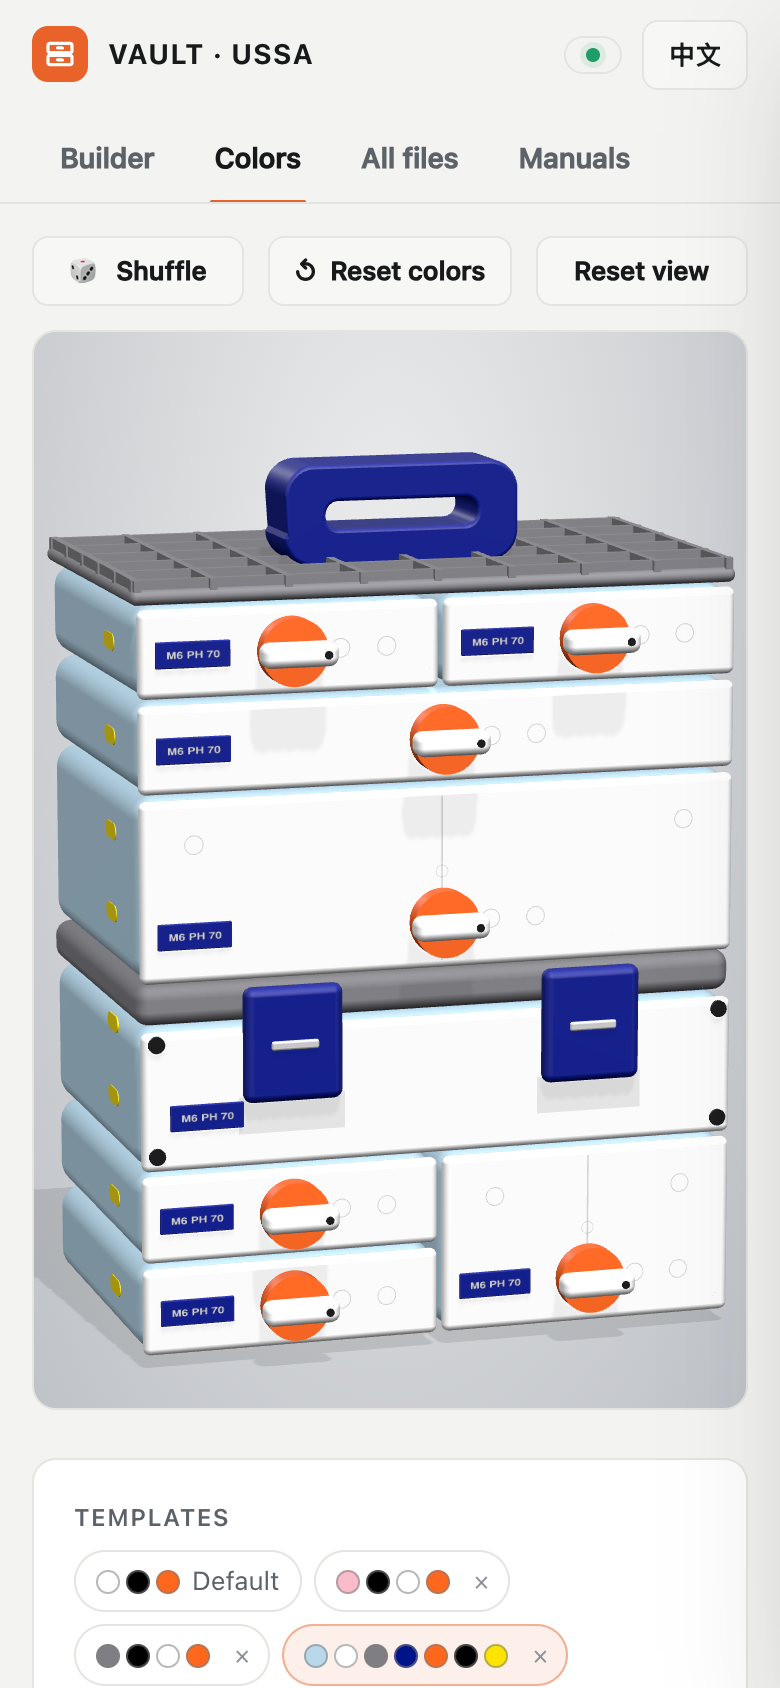
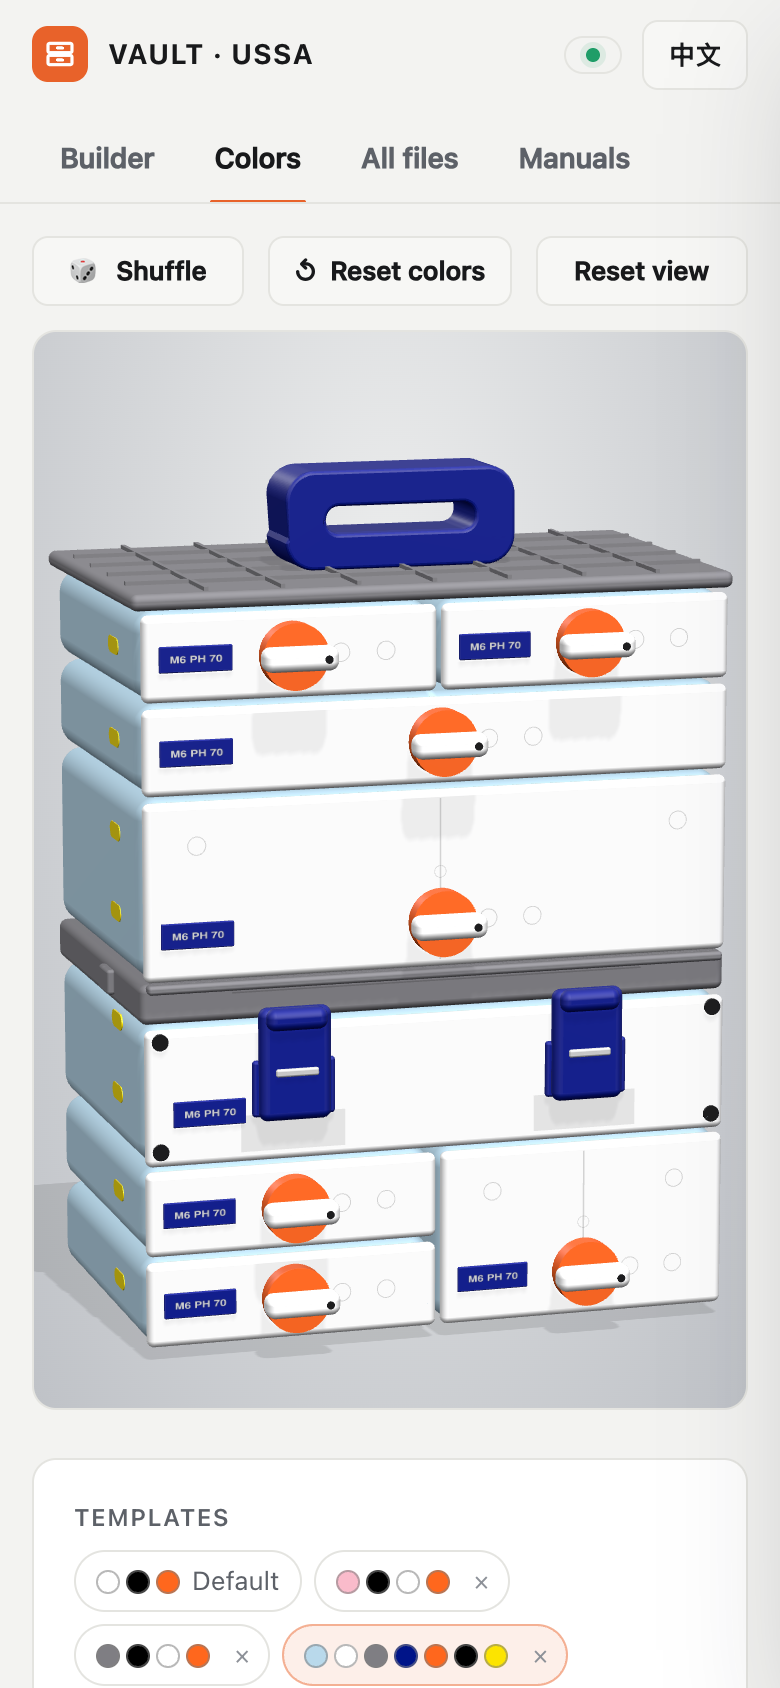
README: emoji feature summary table, then the details; sustainer lid, latches and hinges reshaped to stay within the roof height; refreshed screenshots

Changed region(s): [[0.0615, 0.2464, 0.9538, 0.8009]]

diff --git a/index.html b/index.html
@@ -1757,27 +1757,37 @@ function addSustainer(k, { cx, w, y, h }, depth, locks = 2) {
   const { THREE, add, mat, rb, label, bolt, slot, decal, soft } = k;
   const { LID } = STACK;
   add(rb(w - 1.5, h - LID - 1, depth, 12), mat('body'), cx, y + (h - LID - 1) / 2, -depth / 2, 'body');
-  add(rb(w, LID, depth + 2, 8), mat('roof'), cx, y + h - LID / 2, -depth / 2 + 1, 'roof');
+  // The lid (the sustainer's roof): a flat-topped plate, a little wider than the body, with a bevelled front edge, small side tabs
+  // that the latches grab, a notch for the hinges at the back, three tab pads and a groove line near the front (from the real STL).
+  const lidY = y + h - LID / 2, lidZ = -depth / 2 + 1;
+  add(rb(w, LID, depth + 2, 4.5), mat('roof'), cx, lidY, lidZ, 'roof');
+  add(rb(w - 6, 5, 8, 2), mat('roof'), cx, y + h - 2, 4.2, 'roof');                                   // bevel at the front edge
+  for (const sx of [-1, 1]) add(rb(5, 14, 20, 2), mat('roof'), cx + sx * (w / 2 + 1.5), lidY + 1, -depth * 0.35, 'roof');   // side tabs
+  decal(new THREE.PlaneGeometry(w * 0.7, 0.8), cx, y + h - 6, 5.1);                                  // groove line near the front edge
+  decal(new THREE.PlaneGeometry(26, 7), cx, y + h - LID / 2, -depth - 0.6, soft);                    // hinge notch at the back
+  for (const px of [-0.2, 0, 0.2]) add(rb(24, 1.8, 14, 1), mat('roof'), cx + px * w, y + h + 0.5, -depth + 20, 'roof');   // tab pads near the hinges
   add(rb(w - 3, h - LID - 3.5, 8, 10), mat('facade'), cx, y + (h - LID - 1) / 2, 3.5, 'facade');
-  // Lock latches: a holder plate on the body, and the latch (the clip) hooking over the lid edge, with a pull slot.
-  const n = Math.max(0, Math.min(locks, Math.floor(w / 70))), lh = h < 80 ? h - 8 : h > 150 ? 88 : 62;
+  // Lock latches hang below the lid seam: the hook at the top catches the lower edge of the lid, the latch body and its holder
+  // plate sit on the box underneath, with a pull slot.
+  const n = Math.max(0, Math.min(locks, Math.floor(w / 70)));
+  const topY = y + h - LID + 8;                                   // top of the latch: in the lower part of the lid
+  const lh = Math.min(h < 80 ? 46 : h > 150 ? 88 : 62, topY - y - 6);
   for (let i = 0; i < n; i++) {
-    const lx = cx + ((i + 0.5) / n - 0.5) * w, ly = y + h - lh / 2 - 2;
+    const lx = cx + ((i + 0.5) / n - 0.5) * w, ly = topY - lh / 2;
     decal(new THREE.PlaneGeometry(58, 20), lx, ly - lh / 2 - 7, 7.7, soft);   // the recess under the latch
     add(rb(46, Math.max(16, lh * 0.5), 4, 3), mat('lock'), lx, ly - lh * 0.22, 8.4, 'lock');   // lock holder
     add(rb(40, lh, 10, 7), mat('lock'), lx, ly, 11, 'lock');                                    // latch body
-    add(rb(34, 12, 12, 5), mat('lock'), lx, y + h - LID / 2 + 4, 14.5, 'lock');                  // hook over the lid edge
+    add(rb(34, 12, 12, 5), mat('lock'), lx, topY - 6, 14.5, 'lock');                                // hook over the lid edge
     add(rb(24, 4.5, 3, 2), slot, lx, ly - 4, 16.4);                                            // pull slot
   }
-  // Hinges at the back (as in the official diagram): a hinge top plate with four screws on the lid, the hinge barrel on the body,
-  // and the orange rod ends showing at both sides of the barrel.
+  // Hinges at the back span the same height as the lock latches on the front (same top, same length): the hinge top plate with its
+  // four screws, the barrel at the seam and the orange rod ends at both sides.
   for (const hx of [-0.3, 0.3]) {
-    const x = cx + hx * w, z = -depth - 1.5;
-    add(rb(36, 34, 3, 1.5), mat('hinge'), x, y + h - LID / 2 + 2, z, 'hinge');
-    for (const dx of [-11, 11]) for (const dy of [-9, 9]) add(new THREE.CylinderGeometry(2.4, 2.4, 1.2, 14), bolt, x + dx, y + h - LID / 2 + 2 + dy, z - 2).rotation.x = Math.PI / 2;
-    add(rb(34, 28, 6, 2), mat('hinge'), x, y + h - LID - 12, z - 1.5, 'hinge');
-    add(new THREE.CylinderGeometry(7, 7, 34, 28), mat('hinge'), x, y + h - LID - 1, z - 7.5, 'hinge').rotation.z = Math.PI / 2;
-    for (const sx of [-1, 1]) add(new THREE.CylinderGeometry(3.4, 3.4, 5, 20), mat('rod'), x + sx * 19.5, y + h - LID - 1, z - 7.5, 'rod').rotation.z = Math.PI / 2;
+    const x = cx + hx * w, z = -depth - 1.5, my = topY - lh / 2;
+    add(rb(36, lh, 3, 1.5), mat('hinge'), x, my, z, 'hinge');                                   // hinge plate
+    for (const dx of [-11, 11]) for (const dy of [lh / 2 - 8, -lh / 2 + 8]) add(new THREE.CylinderGeometry(2.4, 2.4, 1.2, 14), bolt, x + dx, my + dy, z - 2).rotation.x = Math.PI / 2;
+    add(new THREE.CylinderGeometry(6.5, 6.5, 34, 28), mat('hinge'), x, topY - 12, z - 6.5, 'hinge').rotation.z = Math.PI / 2;   // barrel
+    for (const sx of [-1, 1]) add(new THREE.CylinderGeometry(3.2, 3.2, 5, 20), mat('rod'), x + sx * 19.5, topY - 12, z - 6.5, 'rod').rotation.z = Math.PI / 2;
   }
   const rows = h > 150 ? [10, (h - LID) / 2, h - LID - 8] : [10, h - LID - 8];
   for (const sx of [-1, 1]) for (const yy of rows) add(new THREE.CylinderGeometry(4.5, 4.5, 2, 20), bolt, cx + sx * (w / 2 - 9), y + yy, 8).rotation.x = Math.PI / 2;
@@ -1795,25 +1805,38 @@ function addStoppers(k, { y, h, kind }, depth, wallX) {
   for (const f of fractions) k.add(geo, k.mat('stopper'), wallX, y + h * f, -0.28 * depth, 'stopper');
 }
 
-// Roof styles of the top unit: grid, bowl, table and under-table mount.
+// Roofs of the top unit. In the pack they are all the same thing: a flat plate a little larger than the box, with a different
+// top: low thin ribs (grid), a shallow rounded dish (bowl), a plain plate with a thin groove (table), or a plain plate with
+// screw holes (under-table mount). The heavyweight cover (L / XL) is a thicker lid with a bar handle.
 function addRoof(k, style, w, depth, y) {
-  const { THREE, add, mat, rb } = k;
-  const rw = w + 2;
-  add(rb(rw, 8, depth + 4, 4), mat('roof'), 0, y + 4, -depth / 2, 'roof');
-  if (style === 'grid') {
-    const nx = Math.max(2, Math.round(rw / 42)), nz = Math.max(2, Math.round(depth / 42));
-    for (let i = 0; i <= nx; i++) add(new THREE.BoxGeometry(4, 6, depth + 2), mat('roof'), -rw / 2 + 4 + i * ((rw - 8) / nx), y + 10, -depth / 2, 'roof');
-    for (let i = 0; i <= nz; i++) add(new THREE.BoxGeometry(rw - 2, 6, 4), mat('roof'), 0, y + 10, -depth + 4 + i * ((depth - 8) / nz), 'roof');
-  } else if (style === 'bowl') {   // a shallow tray: raised rim all round
-    add(new THREE.BoxGeometry(rw, 7, 3), mat('roof'), 0, y + 11, -depth - 0.5, 'roof');
-    add(new THREE.BoxGeometry(rw, 7, 3), mat('roof'), 0, y + 11, 1.5, 'roof');
-    for (const sx of [-1, 1]) add(new THREE.BoxGeometry(3, 7, depth + 4), mat('roof'), sx * (rw / 2 - 1.5), y + 11, -depth / 2, 'roof');
-  } else if (style === 'heavy') {   // heavyweight cover: a thick lid with a bar handle (about 156 x 30 mm) on two posts
-    add(rb(rw, 12, depth + 4, 5), mat('roof'), 0, y + 14, -depth / 2, 'roof');
-    for (const sx of [-1, 1]) add(rb(26, 18, 26, 4), mat('roof'), sx * 56, y + 29, -depth / 2, 'roof');
-    add(rb(156, 22, 30, 11), mat('handle'), 0, y + 46, -depth / 2, 'handle');
-  } else if (style === 'mount') {   // under-table mount: four flanges to screw the unit to a desk
-    for (const sx of [-1, 1]) for (const sz of [-1, 1]) add(rb(24, 4, 26, 2), mat('roof'), sx * (rw / 2 + 10), y + 2, -depth / 2 + sz * (depth / 2 - 4), 'roof');
+  const { THREE, add, mat, rb, fixed } = k;
+  const rw = w + 6, rd = depth + 6;
+  const frame = (outerW, outerD, inset, height, r) => {   // a rounded-rectangle ring lying flat
+    const sh = roundedRect(THREE, outerW, outerD, r);
+    sh.holes.push(new THREE.Path(roundedRect(THREE, outerW - 2 * inset, outerD - 2 * inset, Math.max(2, r - inset / 2)).getPoints(20)));
+    const g = new THREE.ExtrudeGeometry(sh, { depth: height, bevelEnabled: false, curveSegments: 10 });
+    g.rotateX(-Math.PI / 2);
+    return g;
+  };
+  const plate = (t = 9) => add(rb(rw, t, rd, 4), mat('roof'), 0, y + t / 2, -depth / 2, 'roof');
+  if (style === 'heavy') {   // heavyweight cover: a thick lid with a bar handle (about 156 x 30 mm) on two posts
+    add(rb(rw, 12, rd, 5), mat('roof'), 0, y + 6, -depth / 2, 'roof');
+    for (const sx of [-1, 1]) add(rb(26, 18, 26, 4), mat('roof'), sx * 56, y + 21, -depth / 2, 'roof');
+    add(rb(156, 22, 30, 11), mat('handle'), 0, y + 38, -depth / 2, 'handle');
+    return;
+  }
+  plate();
+  if (style === 'grid') {   // low thin ribs every ~42 mm (the Gridfinity pitch), stopping short of the edge
+    const nx = Math.max(2, Math.round(rw / 42)), nz = Math.max(2, Math.round(rd / 42));
+    for (let i = 1; i < nx; i++) add(new THREE.BoxGeometry(2.4, 2.2, rd - 12), mat('roof'), -rw / 2 + i * (rw / nx), y + 9 + 1.1, -depth / 2, 'roof');
+    for (let i = 1; i < nz; i++) add(new THREE.BoxGeometry(rw - 12, 2.2, 2.4), mat('roof'), 0, y + 9 + 1.1, -depth / 2 - rd / 2 + i * (rd / nz), 'roof');
+  } else if (style === 'bowl') {   // a shallow dish: a raised rim all round, a flat floor inside
+    add(frame(rw - 2, rd - 2, 11, 4, 14), mat('roof'), 0, y + 9, -depth / 2, 'roof');
+  } else if (style === 'table') {   // plain plate with a thin groove line near the edge
+    { const groove = add(frame(rw - 12, rd - 12, 1.6, 0.7, 12), fixed('#000000', 1), 0, y + 9.01, -depth / 2); Object.assign(groove.material, { transparent: true, opacity: 0.3 }); groove.castShadow = false; }
+  } else if (style === 'mount') {   // under-table mount: plain plate with screw holes along the long sides
+    const holes = Math.max(3, Math.round(rw / 80));
+    for (let i = 0; i < holes; i++) for (const sz of [-1, 1]) add(new THREE.CylinderGeometry(2.4, 2.4, 0.6, 14), fixed('#222226', 0.6), -rw / 2 + 16 + i * ((rw - 32) / (holes - 1)), y + 9.05, -depth / 2 + sz * (rd / 2 - 9));
   }
 }
 
@@ -1843,7 +1866,7 @@ function buildTower(e) {
     if (u.kind === 'drawer') addDrawer(k, u, DEPTH); else addSustainer(k, u, DEPTH, 2);
   }
   addRoof(k, 'grid', L, DEPTH, STACK_TOP);
-  addHandle(k, STACK_TOP + 8, DEPTH);
+  addHandle(k, STACK_TOP + 9, DEPTH);
   addFeet(k, L, DEPTH);
   return { group: k.g, mats: k.mats, labelMat: k.labelMat };
 }
@@ -1862,7 +1885,7 @@ function buildPreviewUnit(e, st) {
   let base = n * pitch;
   if (drawer) {
     const style = /Heawy|Heavy/i.test(st.roof) ? 'heavy' : /Under/i.test(st.roof) ? 'mount' : /Grid/i.test(st.roof) ? 'grid' : /Bowl/i.test(st.roof) ? 'bowl' : /Table/i.test(st.roof) ? 'table' : '';
-    if (style) { addRoof(k, style, w, depth, base); base += 8; }
+    if (style) { addRoof(k, style, w, depth, base); base += style === 'heavy' ? 12 : 11; }
     if (st.handle && style !== 'heavy') addHandle(k, base, depth, w);   // the heavyweight cover has its own handle
   }
   addFeet(k, w, depth);

diff --git a/README.md b/README.md
@@ -10,27 +10,30 @@ A local browser hub for finding your way around the VAULT modular stacking toolb
 
 The VAULT file pack has 700+ STL files spread over dozens of nested folders (Drawers, Sustainers, Modifications, each split by size family S / M / L / XL, then by depth, modules, roofs, facades, dividers, baseplates...). Working out which files make up *one* drawer, and printing them without missing a part, takes a lot of clicking.
 
-## Highlights
+## ✨ Features at a glance
 
-- **Builder** – choose a drawer or sustainer, size and options, and get the complete list of files to print, with quantities, print time and weight estimates and hardware counts.
-- **Live preview** – a 3D render of the exact unit you configured (every width, depth, height, quantity, lock, roof and handle), updating as you click.
-- **Filament finish tags** – every STL is tagged Matte, Basic or TPU, and each tag is filled with the color you picked for that part.
-- **Color picker** – 8 Matte and 13 Basic colors on a 3D tower, click-to-recolor, shuffle, saved color templates, import / export.
-- **Print checklist** – tick parts off with a saved progress bar, copy the list, or gather all the files into one folder for your slicer.
-- **3D file preview** – orbit any STL in the browser with size and triangle count, wireframe and "open in slicer".
-- **Search all files** – instant search and filters over the whole pack, with thumbnails.
-- **Manuals** – the official PDFs next to a reference gallery.
-- **English / 中文**, light and dark theme that follow your system, and a layout that works on phones.
+| | |
+|---|---|
+| 📋 **Builder** | Pick a drawer or sustainer, size and options → get the complete list of files to print, with quantities, print time, weight and hardware counts. |
+| 🎛 **Every part, with a switch** | All parts of the unit are listed (keys, handle, roofs, dividers, baseplates, locks, hinges…). Switch any on or off; totals, *Copy list* and *Gather* follow. |
+| 🧊 **Live 3D preview** | A render of the exact unit you configured: rounded modules, key, label, runner stoppers, roofs (grid / bowl / table / under-table / heavyweight), lid, lock latches and hinges. Flip it to see the back. |
+| 🎨 **Color picker** | Try 8 Matte and 13 Basic colors on a 3D tower. Click a part to recolor, 🎲 shuffle, reset, save color templates, import / export. |
+| 🏷 **Filament tags** | Every STL is tagged Matte, Basic or TPU, and each tag is filled with the color you picked. |
+| ✅ **Print checklist** | Tick parts off as they print, with a saved progress bar. Copy the list or gather the files into one folder. |
+| 🔍 **3D file preview** | Orbit any STL in the browser with real size and triangle count, wireframe, open in slicer, show in folder. |
+| 🗂 **Search the whole pack** | Instant search and filters across all 700+ files, with thumbnails. |
+| 📖 **Manuals** | The official PDFs next to a reference gallery. |
+| 🌐 **English / 中文** · 📱 **phone-friendly** · 🌗 **light and dark** | One click to switch language; works on phones and follows your system theme. |
 
-## Features
+## 🔎 Feature details
 
-### Builder: "what do I need to print?"
+### 📋 Builder: "what do I need to print?"
 
 ![Builder showing an M4 2F drawer with 5 of 13 parts ticked off](docs/builder-drawer.png)
 
 Pick a unit and the hub lists every file you need, so nothing gets missed.
 
-- **Live preview** – a 3D render at the top of the options that follows every choice and shows the external parts only: body, facade, key lock and label (drawer) or lid, latches and bolts (sustainer), plus the roof (grid / bowl / heavyweight cover with its bar handle / table / under-table mount) and handle. It uses the colors from the Colors tab. Drag to rotate. The shapes follow the real product: rounded modules, a centered rotary key with a horizontal lever (set low on 2F / 4F boxes), a seam down the middle of tall facades, screw dimples, a small label, pill-shaped runner stoppers on the left wall, sustainer lock latches (a holder plate with a hooked clip over the lid edge; one on S / M, two on L / XL by default) in a recessed pocket with columns of bolts, hinge top plates with four screws, a handle about 126 mm wide, and two feet.
+- **Live preview** – a 3D render at the top of the options that follows every choice and shows the external parts only: body, facade, key lock and label (drawer) or lid, latches and bolts (sustainer), plus the roof (grid / bowl / heavyweight cover with its bar handle / table / under-table mount) and handle. It uses the colors from the Colors tab. Drag to rotate. The shapes follow the real product: rounded modules, a centered rotary key with a horizontal lever (set low on 2F / 4F boxes), a seam down the middle of tall facades, screw dimples, a small label, pill-shaped runner stoppers on the left wall, sustainer lock latches (a holder plate with a hooked clip over the lid edge; one on S / M, two on L / XL by default) in a recessed pocket with columns of bolts, hinge top plates with four screws, a handle about 126 mm wide, and two feet. The sustainer lid is a flat-topped plate with a bevelled front edge, side tabs and hinge-side tab pads; the lock latches and the hinges hang within the lid's height (the hinge spans the same height as the latch) and never rise above the roof.
 - **Front / back view** – the ↻ button on the preview swings the camera round to the back, where a sustainer's hinges and hinge rods are.
 - **Unit type** – Drawer or Sustainer (hinged-lid box).
 - **Size** – width S / M / L / XL, depth 3–7, height 1F / 2F / 4F, each with its outer size in mm, plus a quantity.
@@ -67,7 +70,7 @@ Pick a unit and the hub lists every file you need, so nothing gets missed.
 
 The rules live in the `material()` function in `index.html`, so you can adjust them.
 
-### Color picker
+### 🎨 Color picker
 
 ![Colors tab: the stack view](docs/colors-stack-en.png)
 
@@ -82,13 +85,13 @@ Try filament colors on a rendered VAULT tower before you print. The tower is a s
 
 ![Colors tab with custom colors and saved templates](docs/colors-custom-en.png)
 
-### Print checklist
+### ✅ Print checklist
 
 - Tick parts off as they come off the printer; a progress bar shows how far you are. Progress is saved in your browser, and **Clear checks** resets it.
 - **Copy list** exports the checklist as plain text.
 - **Gather into folder** copies the whole parts list into one `_Print Jobs/<name>` folder, ready to drag into your slicer.
 
-### 3D preview
+### 🔍 3D preview
 
 ![3D preview of an STL file](docs/preview-3d.png)
 
@@ -97,24 +100,24 @@ Try filament colors on a rendered VAULT tower before you print. The tower is a s
 - **Open in slicer** launches the file in your default app; **Show in folder** jumps to it in Finder / Explorer.
 - Drop any STL onto the preview panel to view it, even a file from outside the project.
 
-### All files
+### 🗂 All files
 
 ![Searching all files](docs/files.png)
 
 - Instant search by file or folder name (press `/` to focus), with category filters: Drawers, Sustainers, Modifications, Images & PDFs.
 - Results are grouped by folder, with thumbnails, sizes, the suggested filament finish (Matte / Basic / TPU), and preview and show-in-folder buttons on every row.
 
-### Manuals
+### 📖 Manuals
 
 - The five official PDFs open inside the hub, next to a gallery of the reference images.
 
-### English / 中文
+### 🌐 English / 中文
 
 ![Chinese interface](docs/builder-zh.png)
 
 - Full interface in English and Chinese, switchable with one click. Picks your browser language on first run and remembers your choice.
 
-### Phone and tablet
+### 📱 Phone and tablet
 
 <p>
   <img src="docs/mobile-builder.png" width="260" alt="Builder on a phone">
